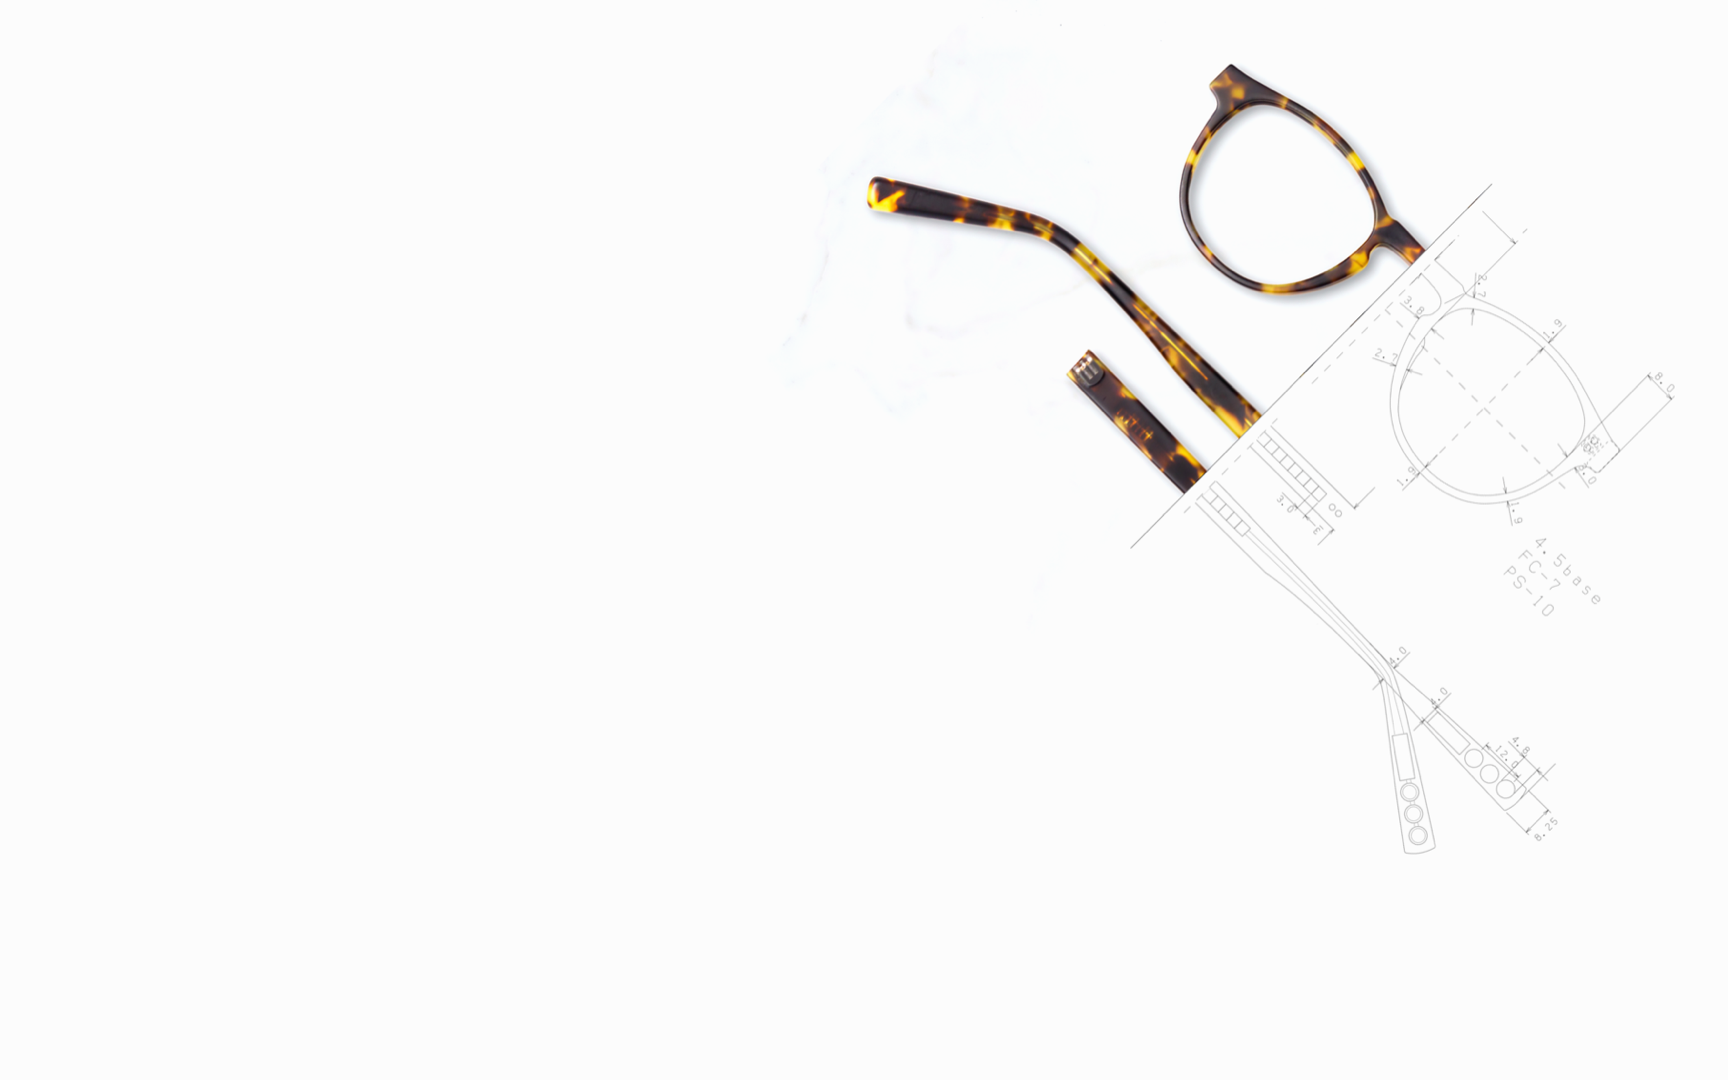
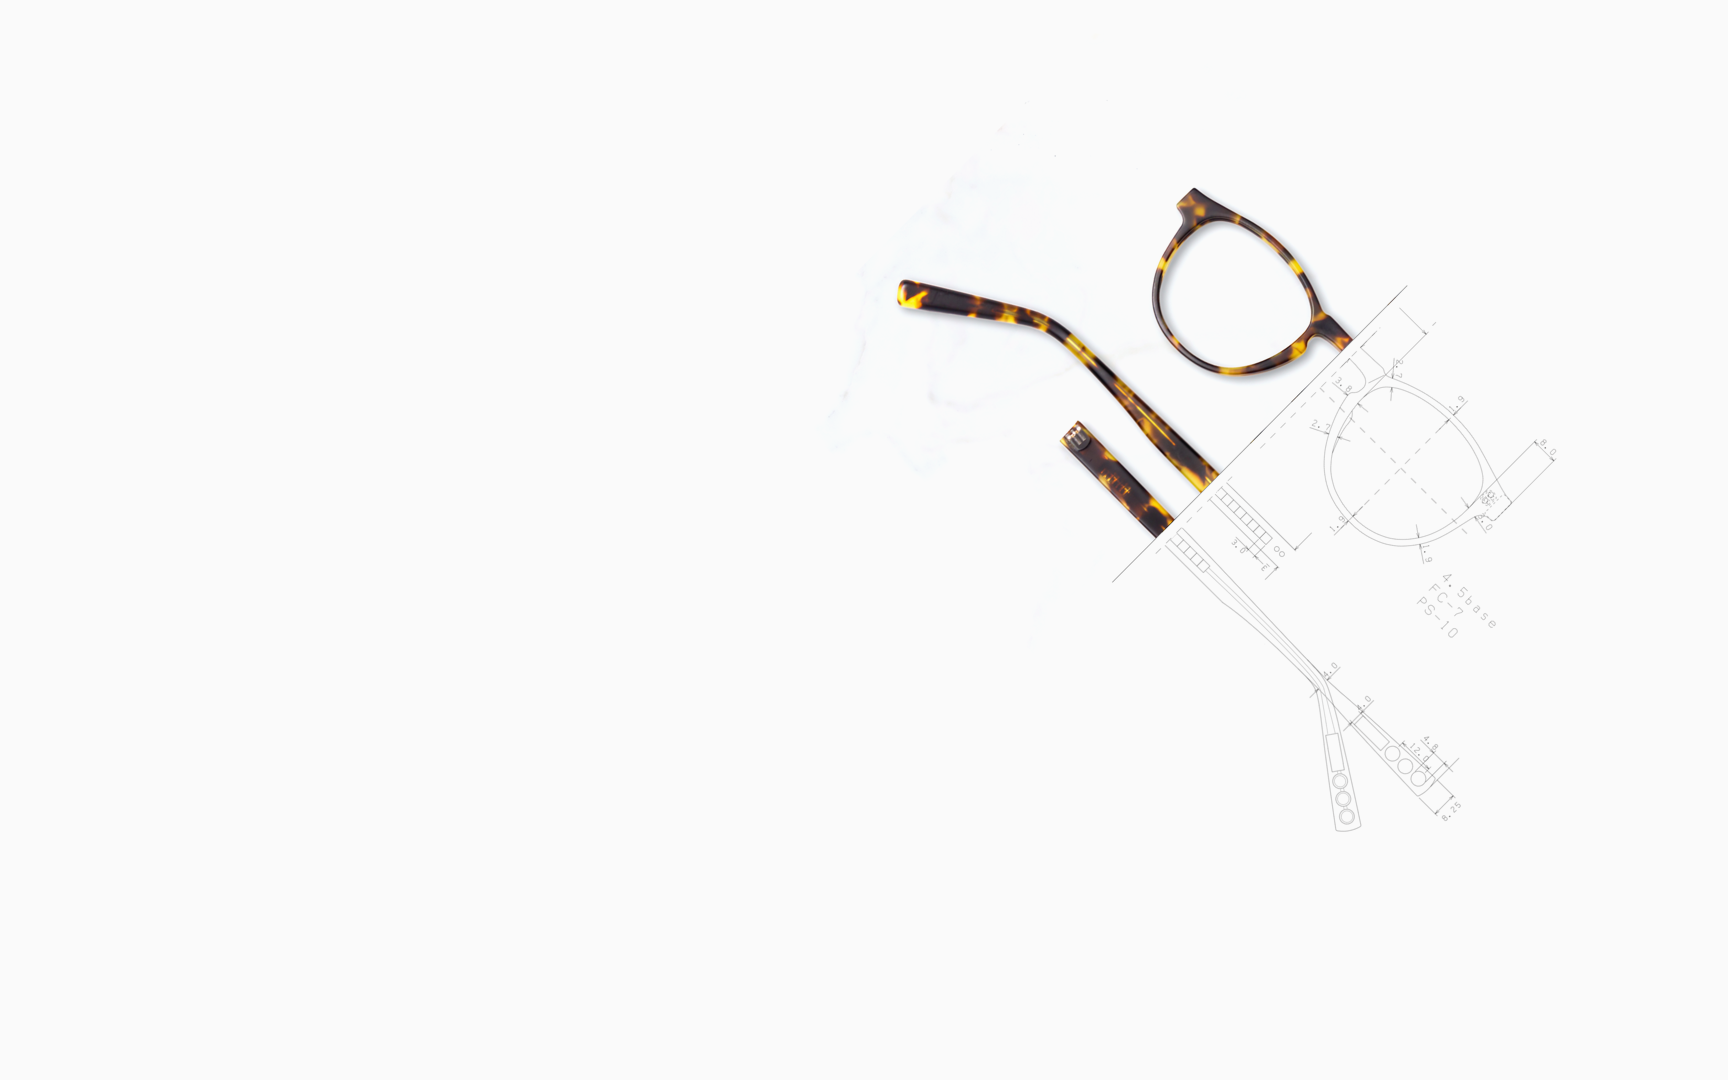
images

diff --git a/app/assets/stylesheets/pages/technology.css.scss b/app/assets/stylesheets/pages/technology.css.scss
@@ -4,10 +4,11 @@ html.technology {
         height: $unloseable-height;
 
         .left.background {
-            top: $panel-padding + 50px;
+            top: $panel-padding;
         }
 
         .content {
+            padding-top: 50px;
             padding-left: 510px;
             width: 450px;
 
